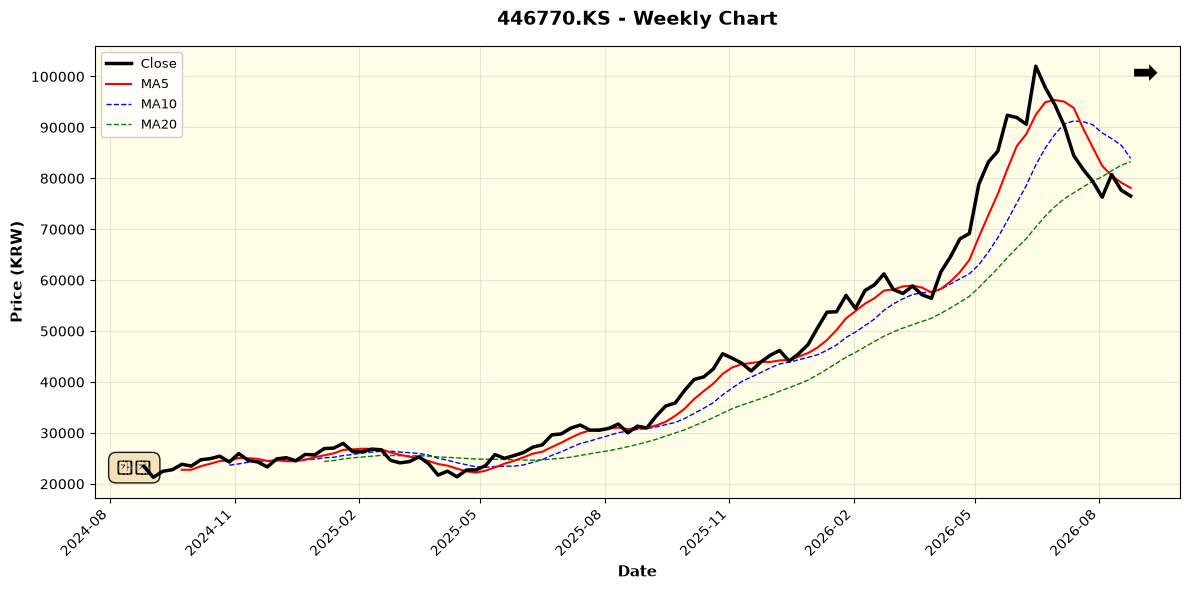
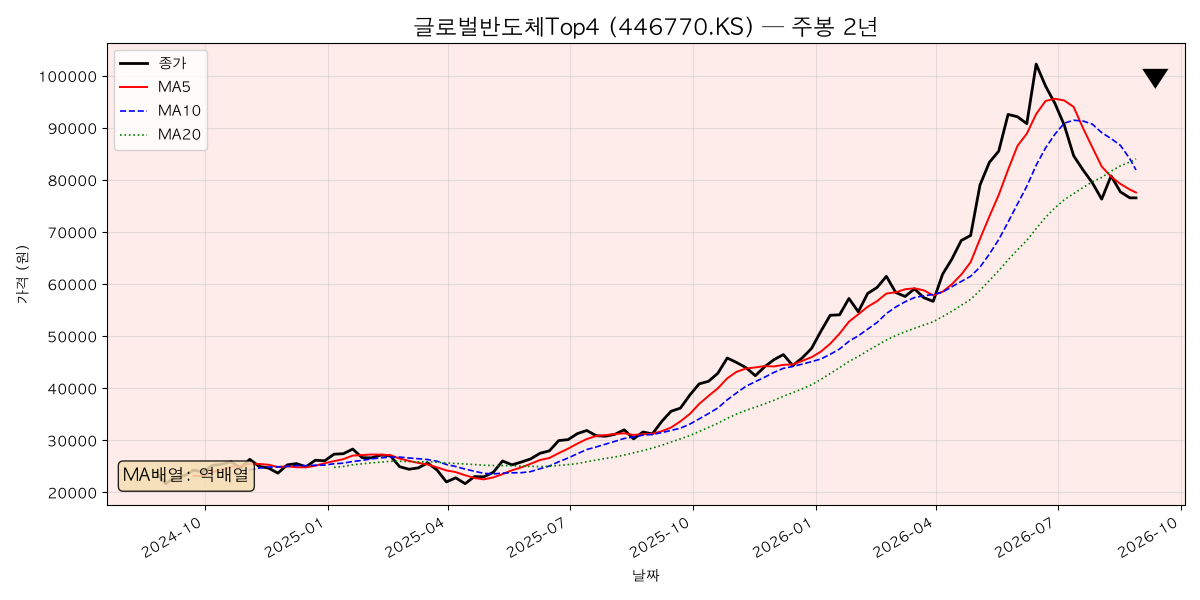
차트 15개 재생성: 제목을 'ETF명 (티커)' 표기로 변경 + 한글 폰트 적용, 5-2 적정가 산출 방법 상세화

diff --git a/content/reports/2026-08-29.md b/content/reports/2026-08-29.md
@@ -188,10 +188,43 @@ description: 반도체 수퍼사이클 vs 미국 소비심리 악화 속 단기 
 
 ### 5-2. ETF별 매수·매도 적정가 (기술적 기준)
 
-**산출 방법** (누구나 재현 가능한 기준):
-- **매수 적정가** = 주봉 차트의 지지선(52주 저점, 주봉 20주 이동평균 지지) + 안전마진(전고점 대비 충분한 할인율 확보 구간)
-- **매도 적정가** = 저항선(52주 전고점 부근, 하락 추세 종목은 20주 이평선 저항)
-- 가격은 2026-08-29 종가 기준 야후 파이낸스 주봉 데이터로 계산. 밸류에이션(PER 등)이 아닌 **가격 구조 기준**이므로 참고용 범위로 볼 것.
+#### 산출 방법 상세 (누구나 같은 숫자를 재현할 수 있는 기준)
+
+**① 사용한 데이터** — 야후 파이낸스 주봉(週棒) 2년치 (2026-08-29 종가 기준). 각 ETF마다 아래 5개 숫자를 먼저 뽑는다.
+
+| 계산 항목 | 공식 | 의미 |
+|---|---|---|
+| 현재가 | 최근 종가 | 출발점 |
+| 20주 이동평균(MA20) | 최근 20주 종가의 평균 | 약 5개월간의 평균 매수 단가 = 중기 추세의 "무게중심". 가격이 이 위면 상승 추세, 아래면 하락 추세로 본다 |
+| 52주 최고가 | 최근 1년 주봉 고가 중 최댓값 | 저항선(전고점). 과거에 팔던 사람들이 많았던 가격 |
+| 52주 최저가 | 최근 1년 주봉 저가 중 최솟값 | 지지선. 과거에 사던 사람들이 많았던 가격 |
+| 52주 위치(%) | (현재가 − 52주 최저) ÷ (52주 최고 − 52주 최저) × 100 | 1년 밴드에서 현재가가 어디쯤인지. 0%면 바닥, 100%면 천장 |
+
+**② 추세 분류** — 위 숫자로 종목을 3가지 국면으로 나누고, 국면마다 다른 공식을 적용한다.
+
+| 국면 | 판별 기준 | 매수 적정가 공식 | 매도 적정가 공식 |
+|---|---|---|---|
+| **상승 추세** (정배열) | 현재가 > MA20, 주봉 정배열 | **MA20 부근** (눌림목). 오르는 종목은 바닥까지 안 오므로, 평균 단가선까지의 조정만 기다린다 | **52주 전고점** 부근. 전고점은 매물대(본전 매도 물량)라 1차 차익 지점 |
+| **박스/조정** (혼조) | 현재가가 MA20 아래지만 52주 위치 40~70% | **전고점 − 안전마진 할인율**. 지수형은 -13~-20%, 변동성 큰 섹터형은 -30~-40% 할인 지점 | **52주 전고점** 회복 구간 |
+| **하락 추세** (역배열) | 현재가 < MA20, 52주 위치 30% 이하 | **52주 최저가 +0~10%** 에서 분할만. 단, 가격 도달만으로 사지 않고 MA20 회복(추세 전환) 확인이 조건 | **MA20 (저항)**. 하락 추세의 반등은 보통 내려오는 MA20에서 꺾이므로, 거기가 보유분 축소 지점 |
+
+**③ 안전마진 할인율을 -13~-20%(지수) / -30~-40%(섹터)로 정한 이유**
+- 미국 대형 지수의 통상 조정(correction)은 고점 대비 -10~-20%에서 멈춘 경우가 역사적으로 가장 많다. 그래서 지수형은 "-13% 이상 빠졌을 때부터"를 매수 시작선으로 잡는다.
+- 반도체·AI·조선 같은 섹터/테마형은 사이클 하강 시 -40~-60%까지 빠진 사례가 흔하다(이번에도 조선Top3가 고점 대비 -35% 진행 중). 그래서 지수보다 훨씬 깊은 -30~-40% 할인을 요구한다. **변동성이 큰 자산일수록 더 싸게 사야 같은 안전마진이 확보된다**는 원칙이다.
+
+**④ 계산 예시 1 — S&P500 (360750, 박스/조정 국면)**
+- 수집값: 현재가 26,280 / MA20 27,387 / 52주 최고 29,000 / 52주 최저 22,365 / 52주 위치 59%
+- 판별: 현재가(26,280) < MA20(27,387) 이고 52주 위치 59% → **박스/조정 국면** → 할인율 공식 적용
+- 매수 적정가: 전고점 29,000 × (1−0.15) = 24,650, 29,000 × (1−0.13) = 25,230 → **24,600~25,200** (백원 단위 절사)
+- 매도 적정가: 전고점 저항 구간 = **28,500~29,000** (전고점 직전은 매물대라 100% 도달 전 -2% 지점부터 분할 매도)
+
+**⑤ 계산 예시 2 — 조선Top3 (466920, 하락 추세 국면)**
+- 수집값: 현재가 28,165 / MA20 33,326 / 52주 최고 43,020 / 52주 최저 24,065 / 52주 위치 22%
+- 판별: 현재가 < MA20 이고 52주 위치 22% → **하락 추세 국면**
+- 매수 적정가: 52주 최저 24,065 × (1+0~4%) ≈ **25,000 이하 분할** — 단 MA20 회복 확인 전엔 소량만
+- 매도 적정가: 내려오는 MA20 = 33,326 → 반등이 와도 **32,000~33,000**에서 보유분 축소 (하락 추세의 반등은 MA20에서 꺾일 확률이 높음)
+
+**⑥ 이 방식의 한계** — 이 적정가는 기업 이익 기반 밸류에이션(PER·PBR)이 아니라 **가격 구조(지지·저항·추세) 기준**이다. 시장이 급변하면(금리 급등, 실적 쇼크) 지지선은 깨질 수 있으므로, 적정가는 "자동 매수 주문 가격"이 아니라 **"그 가격에 오면 그때의 거시 상황을 다시 확인하고 판단하는 알림선"**으로 쓰는 것이 맞다.
 
 | ETF (티커) | 현재가 | 매수 적정가 | 매도 적정가 | 산출 근거 |
 |---|---|---|---|---|
